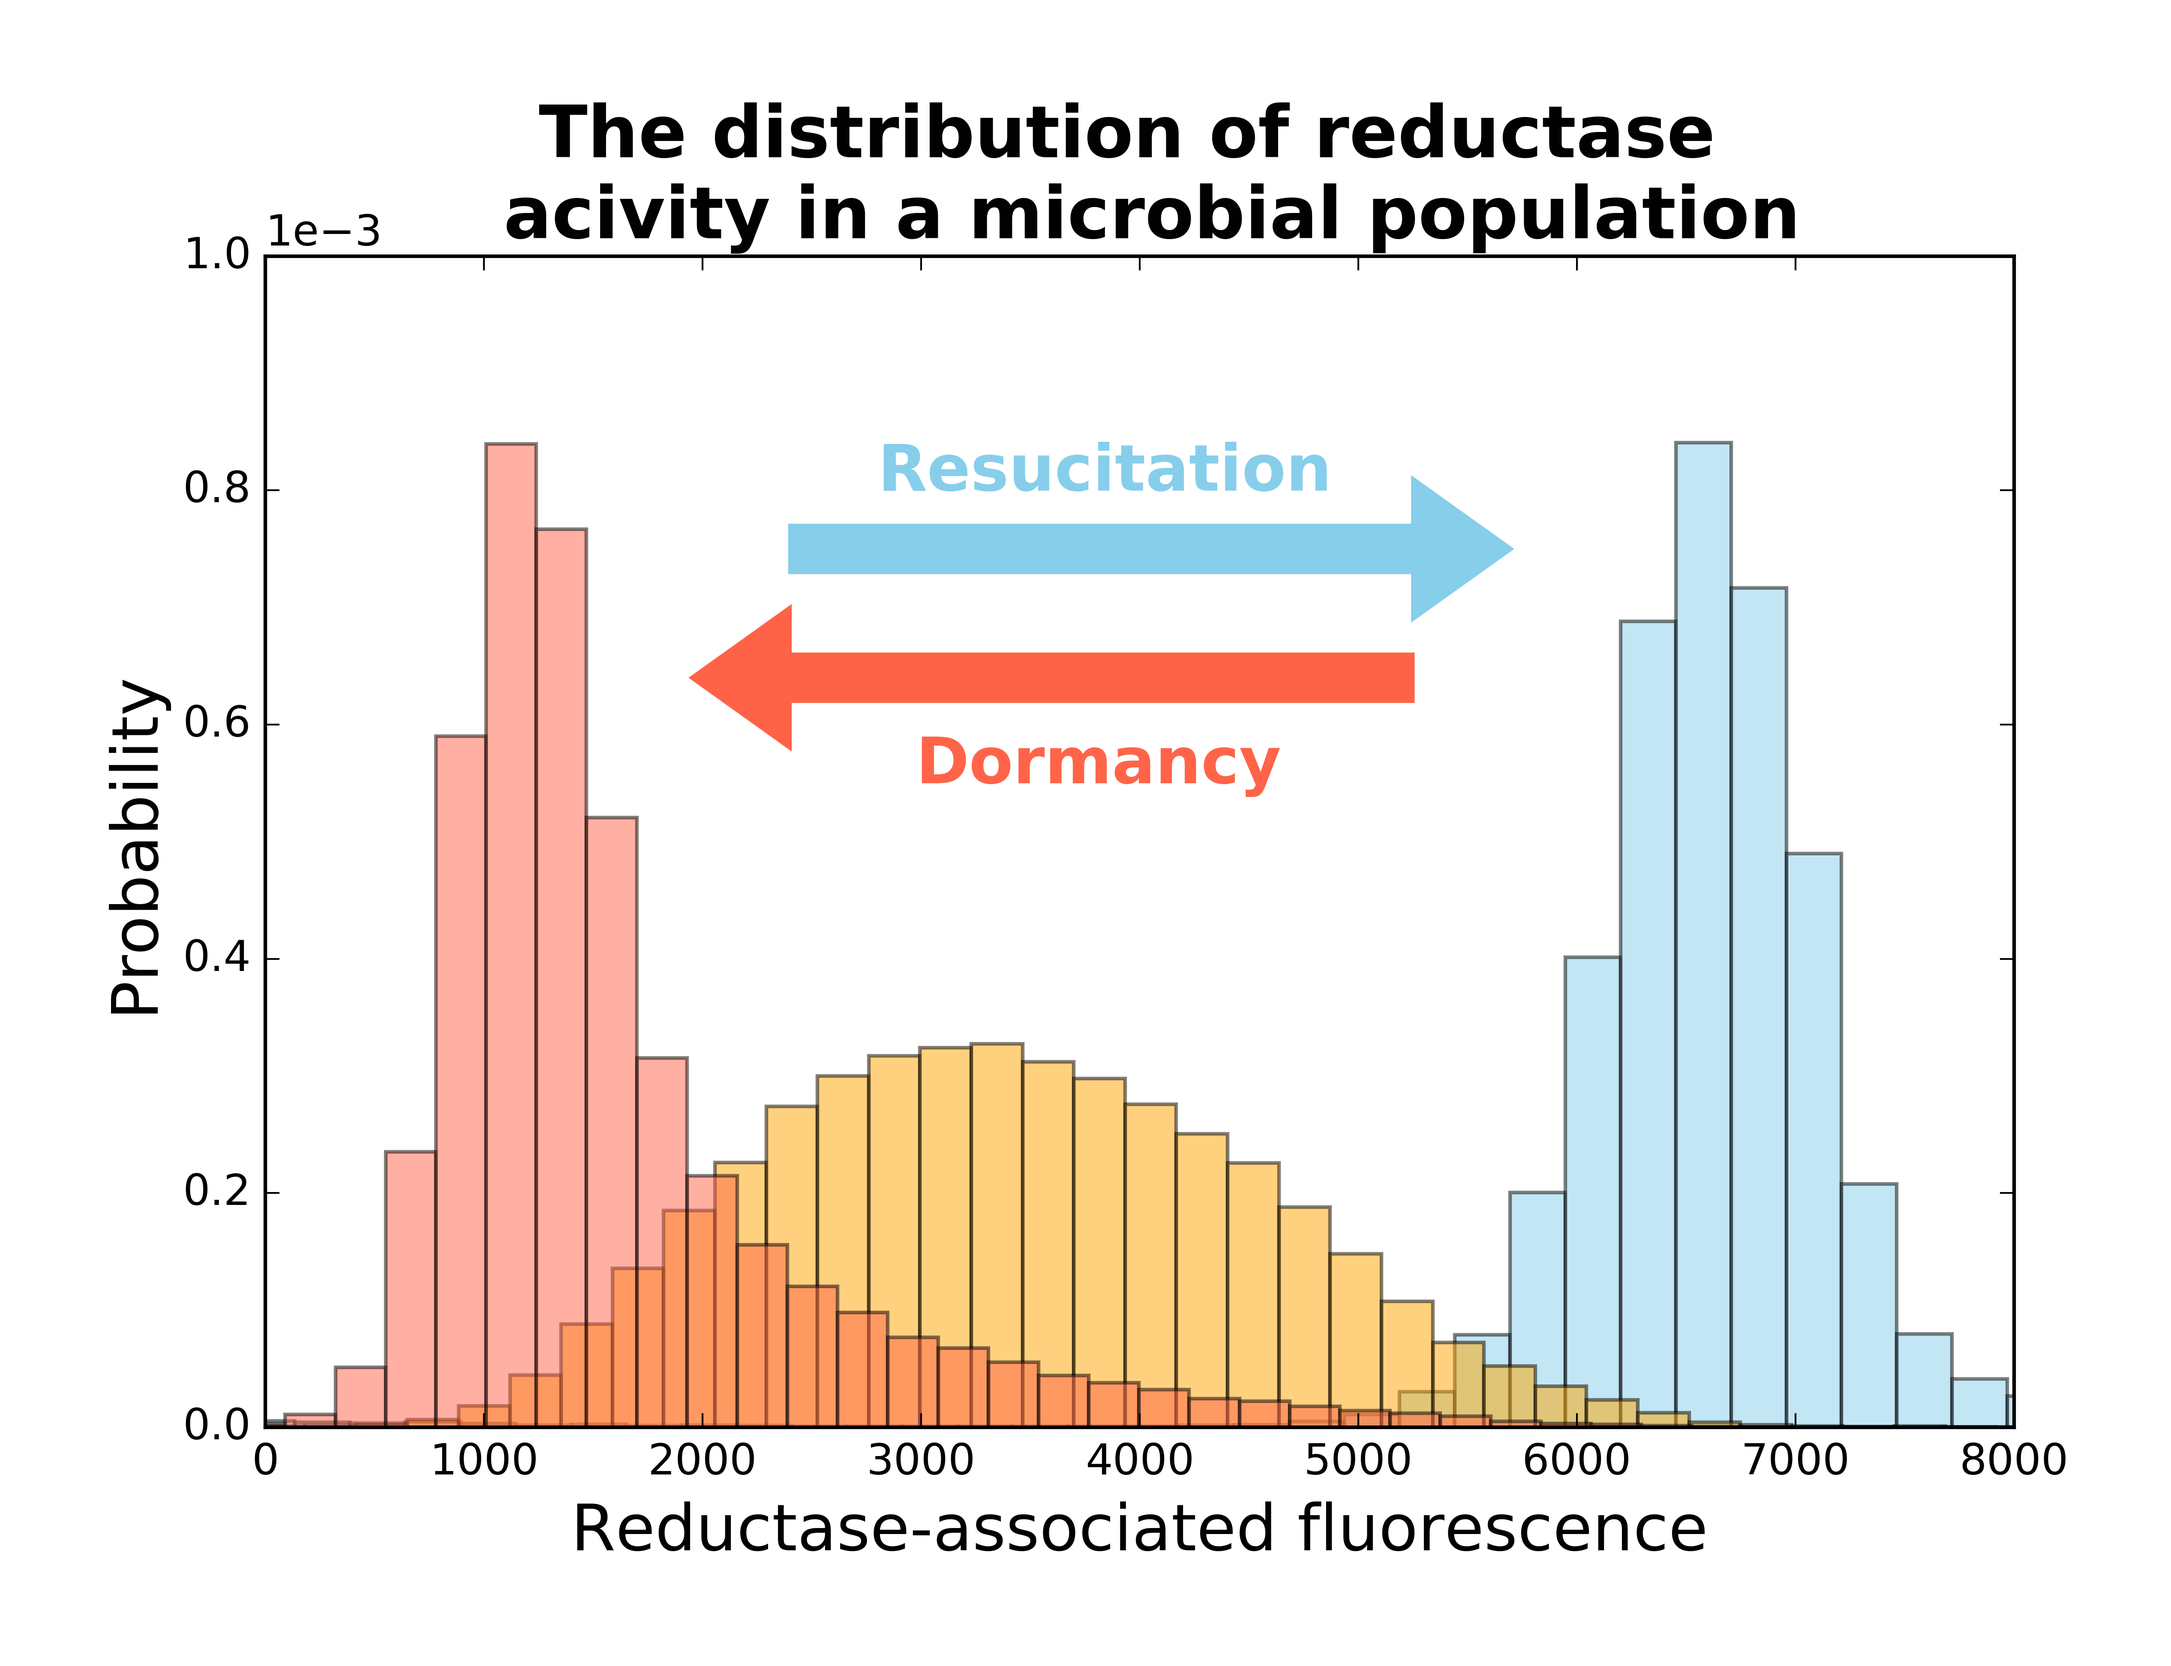
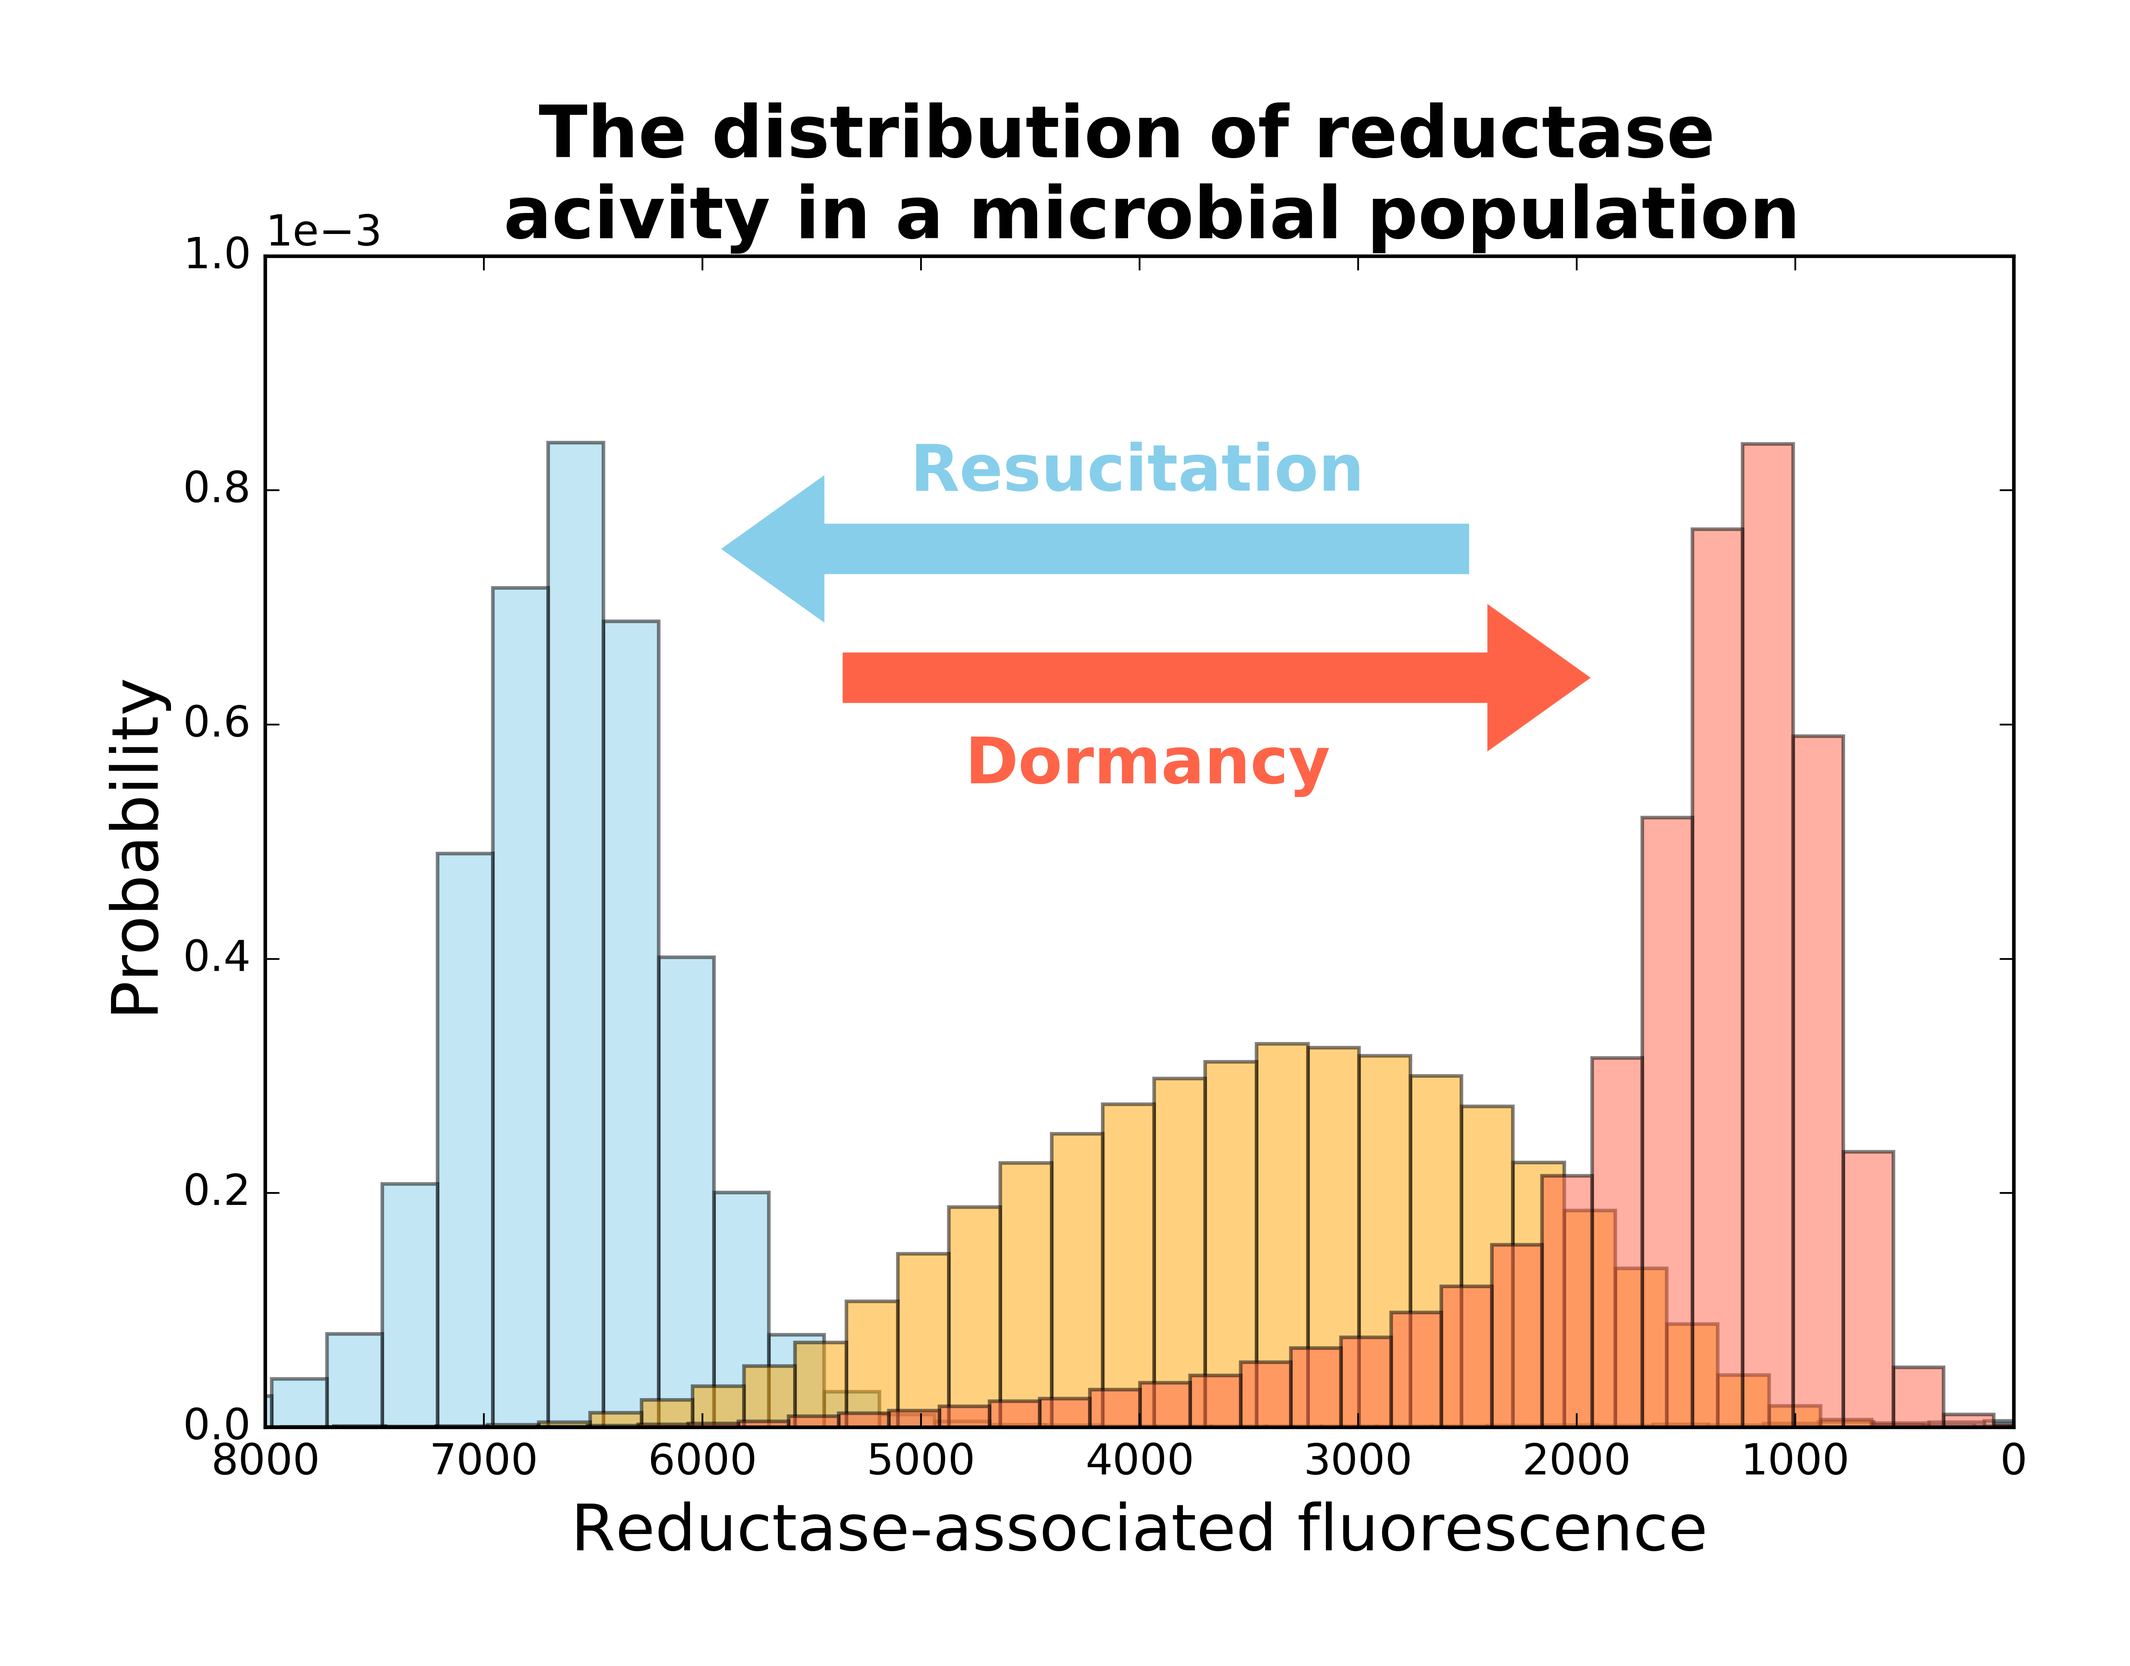
theoretical values to fig2a

diff --git a/Python/makeFigs.py b/Python/makeFigs.py
@@ -50,6 +50,7 @@ def Fig2(theta2 = 0, seq_length = 100):
                     y.append(pi)
                 theta1_SN = sci_notation(theta1)
                 ax.plot(M, np.asarray(y), 'k-', color = colors[i], label= r'$\theta = {{{}}}$'.format(theta1_SN), linewidth=3)
+                ax.axhline(y = theta1, color=colors[i], ls = '--', lw = 3)
             ax.set_ylim([0.000001, 1])
             ax.set_xscale('log', basex=10)
             ax.set_yscale('log', basey=10)
@@ -341,6 +342,7 @@ def Box1Fig():
     RSG_012 = gated_sample_012.data[['FITC-A']].values
     RSG_264 = gated_sample_264.data[['FITC-A']].values
 
+
     #colors = ['#FF6347', '#FFA500', '#87CEEB']
 
     plt.hist(RSG_006, 40, fc='#87CEEB', histtype='bar', alpha=0.5, normed=True)
@@ -352,21 +354,22 @@ def Box1Fig():
         fontsize = 20, weight = 'heavy')
     plt.xlabel('Reductase-associated fluorescence', fontsize = 18)
     plt.ylabel('Probability', fontsize = 18)
-    plt.arrow(2400, 0.00075, 3300, 0, width=0.00004, \
+    plt.arrow(2500, 0.00075, 3400, 0, width=0.00004, \
         head_width=0.00012, head_length=450,  length_includes_head=True, \
         shape='full', color = '#87CEEB')
-    plt.text(2800, 0.0008, 'Resucitation', color = '#87CEEB', fontsize = 18, weight = 'heavy')
-    plt.arrow(5250, 0.00064, -3300, 0, width=0.00004, \
+    plt.arrow(5350, 0.00064, -3400, 0, width=0.00004, \
         head_width=0.00012, head_length=450,  length_includes_head=True, \
         shape='full', color = '#FF6347')
-    plt.text(2975, 0.00055 , 'Dormancy', color = '#FF6347', fontsize = 18, weight = 'heavy')
 
     plt.xlim(0, 8000)
     plt.ylim(0, 0.001)
     fig.tight_layout()
+    plt.gca().invert_xaxis()
+    plt.text(4800, 0.00055 , 'Dormancy', color = '#FF6347', fontsize = 18, weight = 'heavy')
+    plt.text(5050, 0.0008, 'Resucitation', color = '#87CEEB', fontsize = 18, weight = 'heavy')
     fig_name = mydir + '/figures/Box1Fig.png'
     fig.savefig(fig_name, bbox_inches = "tight", pad_inches = 0.4, dpi = 600)
     plt.close()
 
 
-Box1Fig()
+Fig2()
